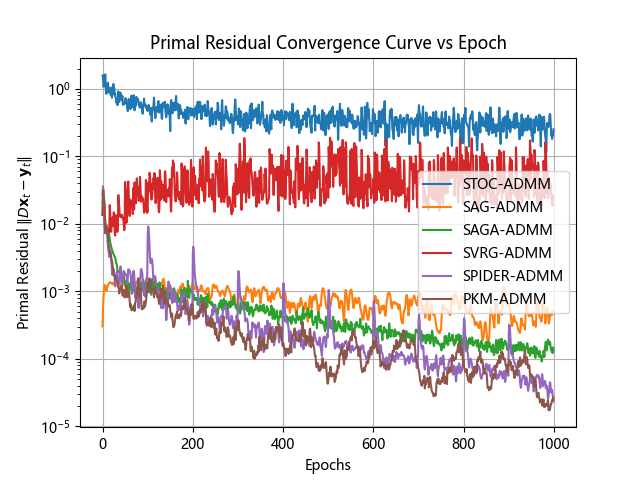
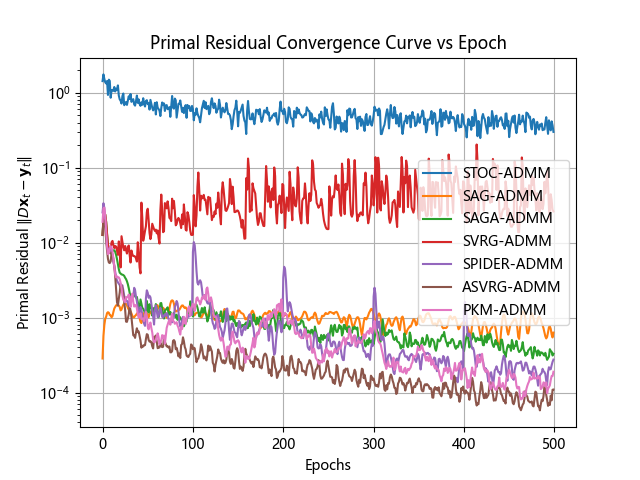
加入了ASVRG-ADMM算法

diff --git a/GGLR_ADMM_Experiments/algorithms/asvrg_admm.py b/GGLR_ADMM_Experiments/algorithms/asvrg_admm.py
@@ -1,0 +1,113 @@
+import numpy as np
+import time
+from utils.metrics import objective_gap, primal_residual, dual_residual
+from scipy.special import expit  # 用于数值稳定的 expit 计算
+
+
+def asvrg_admm(A, b, D, max_iter=1000, p_star=0.0,
+               mu1=1e-3, mu2=1e-2, rho=1.0,
+               step_size=0.01, batch_size=32,
+               gamma=1.0, inner_iter=10, theta=0.5):
+    """
+    ASVRG-ADMM 求解图诱导正则化逻辑回归 (GGLR) 问题
+
+    :param A: 样本特征矩阵 (n_samples, n_features)
+    :param b: 标签向量 (n_samples,)
+    :param D: 图关联矩阵 (n_edges, n_features)
+    :param max_iter: 最大外层迭代次数
+    :param p_star: GGLR 问题的真实最优值
+    :param mu1: L2 正则化系数 (原文 \mu_1)
+    :param mu2: L1 正则化系数 (原文 \mu_2)
+    :param rho: ADMM 惩罚参数
+    :param step_size: 基础学习率 (\eta)
+    :param batch_size: 随机采样的批次大小
+    :param inner_iter: SVRG 内层循环更新全梯度快照的频率 (m)
+    :param theta: ASVRG 独有的动量插值参数 (0 <= \theta <= 1)
+    :param gamma: ASVRG 独有的控制变量 (\gamma)
+    :return: 收敛指标字典（gap, primal, dual, time）
+    """
+    n, d = A.shape
+    n_edges = D.shape[0]
+    batch_size = min(batch_size, n)  # 确保 batch_size 不超过样本数
+
+    # 初始化变量（严格参照伪代码）
+    x = np.zeros(d, dtype=np.float64)  # 主变量 x_t
+    x_tilde = np.zeros(d, dtype=np.float64)  # 锚点 \widetilde{x}^s
+    z = np.zeros(d, dtype=np.float64)  # 动量变量 z_t
+    y = np.zeros(n_edges, dtype=np.float64)  # 辅助变量 y_t
+    lam_u = np.zeros(n_edges, dtype=np.float64)  # 缩放后的对偶变量 \lambda_t
+
+    full_grad = np.zeros(d, dtype=np.float64)
+
+    # 记录收敛指标
+    gaps, primals, duals, time_list = [], [], [], []
+    start_time = time.time()
+
+    for k in range(max_iter):
+        # ==========================================================
+        # 1. SVRG 外层：计算全梯度快照
+        # ==========================================================
+        if k % inner_iter == 0:
+            x_tilde = x.copy()  # 锚点更新 \widetilde{x}^{s+1} = x_m^{s+1}
+            # 计算全梯度 (包含 L2 正则项 mu1)
+            z_full = b * (A @ x_tilde)
+            coef_full = -b * expit(-z_full)
+            full_grad = (A.T @ coef_full) / n + mu1 * x_tilde
+
+        # ==========================================================
+        # 2. 内层循环：计算方差缩减随机梯度 (VR Gradient)
+        # ==========================================================
+        # 随机采样 batch_size 个样本
+        idx = np.random.choice(n, size=batch_size, replace=False)
+        A_batch = A[idx]
+        b_batch = b[idx]
+
+        # 当前 x_t 处的 mini-batch 梯度
+        z_curr = b_batch * (A_batch @ x)
+        coef_curr = -b_batch * expit(-z_curr)
+        grad_curr = (A_batch.T @ coef_curr) / batch_size + mu1 * x
+
+        # 锚点 x_tilde 处的 mini-batch 梯度
+        z_snap = b_batch * (A_batch @ x_tilde)
+        coef_snap = -b_batch * expit(-z_snap)
+        grad_snap = (A_batch.T @ coef_snap) / batch_size + mu1 * x_tilde
+
+        # ASVRG 方差缩减梯度估计: \hat{\nabla} f(x_t)
+        vr_grad = grad_curr - grad_snap + full_grad
+
+        # ==========================================================
+        # 3. 核心 ADMM 更新步 (严格参照伪代码顺序与变量)
+        # ==========================================================
+
+        # 3.1 Update y: \mathcal{S}_{\mu_2/\rho}(D x_t + \lambda_t)
+        u = D @ x + lam_u
+        y = np.sign(u) * np.maximum(np.abs(u) - mu2 / rho, 0.0)
+
+        # 3.2 Update z: z_{t+1} = z_t - \frac{\eta}{\gamma\theta} [ \hat{\nabla} f(x_t) + \rho D^\top (D z_t - y_{t+1} + \lambda_t) ]
+        z_grad = vr_grad + rho * (D.T @ (D @ z - y + lam_u))
+        z = z - (step_size / (gamma * theta)) * z_grad
+
+        # 3.3 Update x: x_{t+1} = \theta z_{t+1} + (1 - \theta)\widetilde{x}^s
+        x = theta * z + (1 - theta) * x_tilde
+
+        # 3.4 Update scaled dual variable \lambda: \lambda_{t+1} = \lambda_t + D z_{t+1} - y_{t+1}
+        # 注意：此处依据伪代码，残差计算使用的是新更新的 z，而不是 x
+        lam_u_prev = lam_u.copy()
+        lam_u = lam_u + D @ z - y
+
+        # ==========================================================
+        # 4. 指标计算与记录
+        # ==========================================================
+        # 将 mu1 与 mu2 传入以适配您的 `objective_gap` API (对应 API 中的 mu 和 lam)
+        gap = objective_gap(x, y, D, A, b, mu1, mu2, p_star)
+
+        # 依据标准度量，原问题残差以 Dx - y 为准，与目标函数 L1 项对齐
+        pr = primal_residual(D, x, y)
+        dr = dual_residual(lam_u_prev, lam_u, rho, D)
+
+        gaps.append(gap)
+        primals.append(pr)
+        duals.append(dr)
+        time_list.append(time.time() - start_time)
+
+    return {"gap": gaps, "primal": primals, "dual": duals, "time": time_list}

diff --git a/GGLR_ADMM_Experiments/main.py b/GGLR_ADMM_Experiments/main.py
@@ -11,6 +11,7 @@ from algorithms.sag_admm import sag_admm
 from algorithms.saga_admm import saga_admm
 from algorithms.svrg_admm import svrg_admm
 from algorithms.spider_admm import spider_admm
+from algorithms.asvrg_admm import asvrg_admm
 from algorithms.pkm_admm import pkm_admm
 
 
@@ -59,6 +60,16 @@ spider_rho = 1.0            # 默认：1.0
 spider_step_size = 0.02     # 默认：0.01
 spider_batch_size = 1          # SPIDER-ADMM批次大小，默认32
 
+# ASVRG-ADMM 参数
+asvrg_mu1 = 1e-3
+asvrg_mu2 = 1e-2
+asvrg_rho = 1.0
+asvrg_step_size = 0.01
+asvrg_batch_size = 32
+asvrg_inner_iter = 10     # 全梯度快照更新频率
+asvrg_theta = 0.7         # 动量参数
+asvrg_gamma = 1.0         # 控制变量
+
 # PKM-ADMM 参数
 pkm_mu1 = 1e-3               # 默认：1e-3
 pkm_mu2 = 1e-2              # 默认：1e-2
@@ -92,7 +103,7 @@ results = []
 # ======== 比较算法 ========
 algo_names = [
     "STOC-ADMM", "SAG-ADMM", "SAGA-ADMM",
-    "SVRG-ADMM", "SPIDER-ADMM", "PKM-ADMM"
+    "SVRG-ADMM", "SPIDER-ADMM", "ASVRG-ADMM", "PKM-ADMM"
 ]
 
 tmp = ' -> '.join(algo_names)
@@ -140,6 +151,14 @@ res_spider = spider_admm(
 # print("    SPIDER-ADMM gap 是否有inf:", np.any(np.isinf(res_spider["gap"])))
 # print("    SPIDER-ADMM gap 是否有NaN:", np.any(np.isnan(res_spider["gap"])))
 results.append(res_spider)
+
+res_asvrg = asvrg_admm(
+    A, b, D, max_iter=max_iter, p_star=p_star,
+    mu1=asvrg_mu1, mu2=asvrg_mu2, rho=asvrg_rho,
+    step_size=asvrg_step_size, batch_size=asvrg_batch_size,
+    gamma=asvrg_gamma, inner_iter=asvrg_inner_iter, theta=asvrg_theta
+)
+results.append(res_asvrg)
 
 # ---- PKM-ADMM ----
 res_pkm = pkm_admm(
